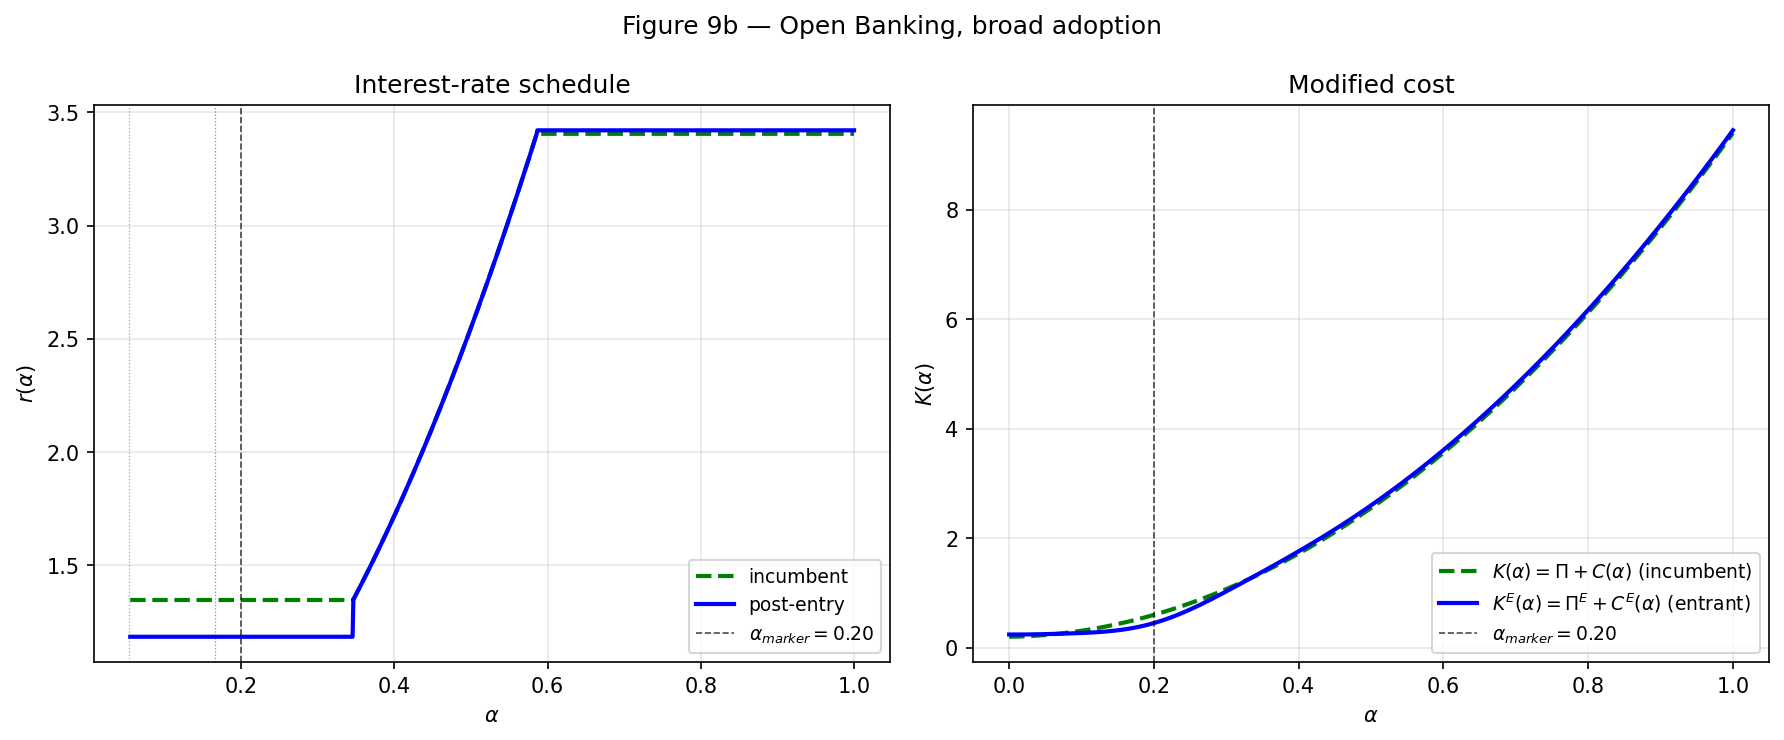
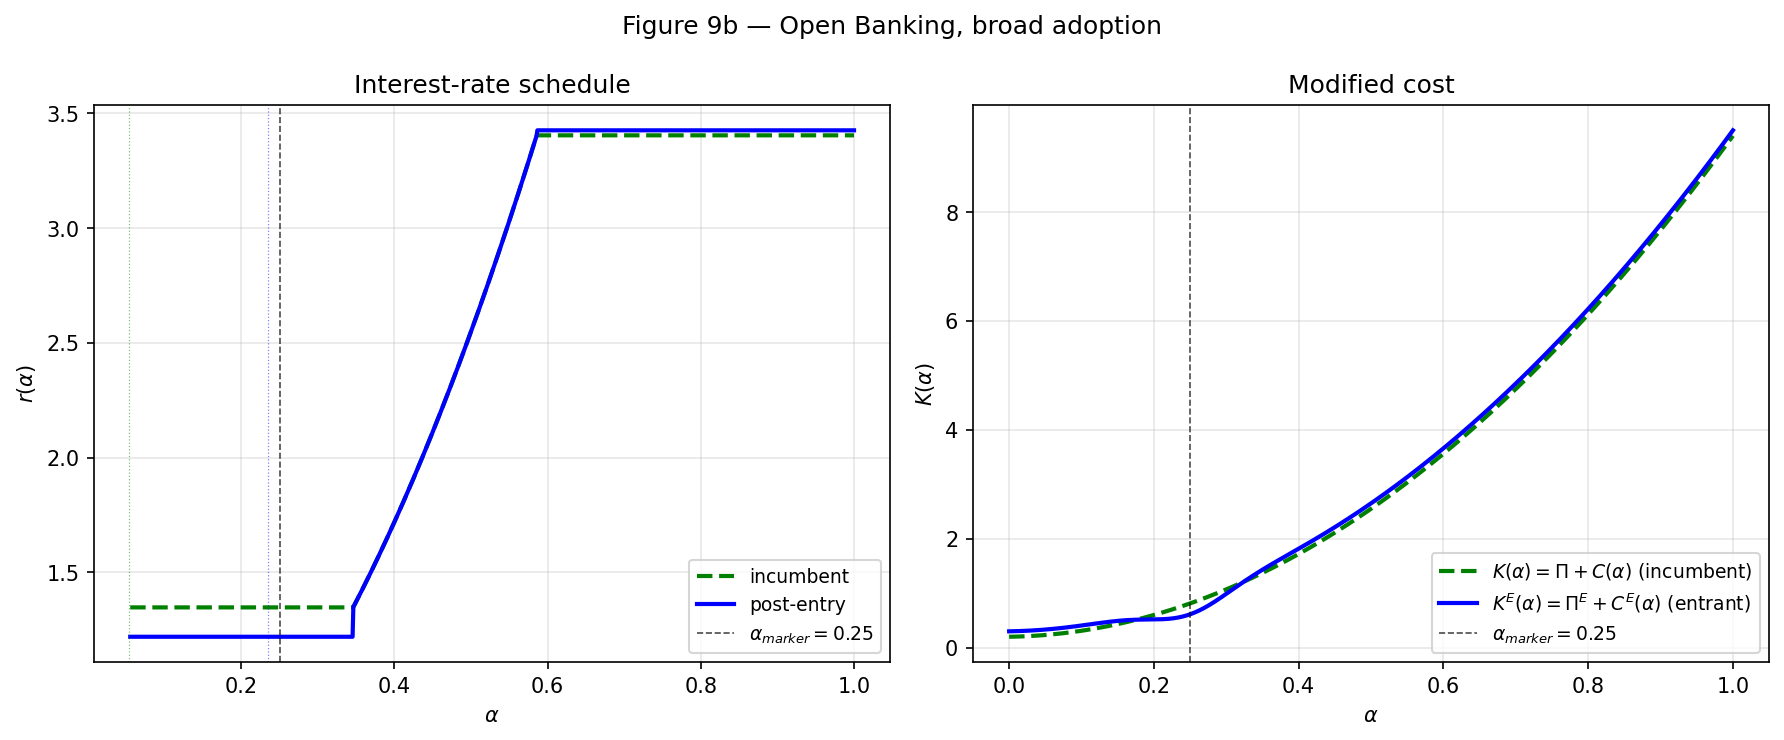
Iteration 3: tighten params for fig 8 / 9b, enforce K^E monotonicity
- FIG8_bigdata: alpha_hat=0.55, transition_width=0.08 so K^E and K_inc
  cross around alpha ~ 0.5 within CIM; transition_width derivation
  documented inline. K^E monotone.
- FIG9_OB_broad (cost_dip_gaussian): alpha_center=0.25, sigma=0.05,
  delta_dip=0.30, delta_baseline=0.10. Sits at the cleanest corner of
  the constraint set:
    (i)  K^E monotone (delta_dip <= K'(alpha_c-sigma)*sigma/0.607)
    (ii) K^E >= K_inc on (alpha_1, alpha_2) so no Region II entry
   (iii) Cost advantage band pulls entrants to mid-pooling, raises
         badleftoverE, lands the equilibrium on the rprime-min branch
         ("rNS goes up, no NS entry"; alpha_2^E = alpha_2).
- Constraint derivations are written into the config comments so future
  re-tuning has the bounds at hand.

diff --git a/mainE_python.py b/mainE_python.py
@@ -77,12 +77,16 @@ PARAM_CONFIGS = {
         'description': 'Figure 8 / fig:AIintermediateInnovation - big data: C^E<C for alpha>alpha_hat.',
         # Setup chosen so K^E starts above K (Π^E > Π = 0.2), is flatter at high
         # α (λ < 1 multiplicative reduction), and crosses K only at a relatively
-        # high α (within the CIM region, before NS).
+        # high α (around α ≈ 0.5, within the CIM region, before NS).
+        # alpha_hat = 0.55 puts the transition near the NS boundary; the crossover
+        # point K^E = K_inc then falls around α ≈ 0.5.
         **_DEFAULT_INC_BASELINE,
         'has_entry': True,
         'PiE': 0.5,
         'cfunE_kind': 'cost_reduction_top',
-        'cfunE_params': {'alpha_hat': 0.40, 'lambda': 0.5, 'transition_width': 0.05},
+        'cfunE_params': {'alpha_hat': 0.55, 'lambda': 0.5, 'transition_width': 0.08},
+        # transition_width = 0.08 keeps K^E monotone given C(α)=9α²+0.2α.
+        # The bound is s ≥ (1-λ)·C(α_hat)/[(2+2λ)·C'(α_hat)] ≈ 0.047.
     },
     'FIG9_OB_limited': {
         'description': 'Figure 9a / fig:OB left - Open Banking, limited adoption (alpha_hat small).',
@@ -102,19 +106,31 @@ PARAM_CONFIGS = {
         # Target equilibrium branch: rprime is min AND rprime > K(α₂)
         # ("rNS goes up, no NS entry" branch from prop:EntEqHeterogC proof,
         # lines 1432-1433 of the LaTeX).
-        # The Gaussian dip is centered inside the pooling region, away from α₀,
-        # so entrants prefer to enter at HIGHER α than incumbents → more cream-
-        # skimming of goods → more bads left over → rprime > K(α₂).
-        # K^E ≥ K_inc at α=0 and α=α₂ ensures rdprime, rtprime are not the min.
+        # The Gaussian dip is centered closer to α₁ with a deeper dip and a
+        # higher baseline, so:
+        #   (a) entrants prefer α near α_center > α₀ → more cream-skimming of
+        #       goods → larger badleftoverE → r_NS^E visibly above r_NS.
+        #   (b) K^E rises above K_inc cleanly outside the band (delta_baseline)
+        #       so rdprime, rtprime are not the minimum.
         **_DEFAULT_INC_BASELINE,
         'has_entry': True,
         'PiE': 0.2,
         'cfunE_kind': 'cost_dip_gaussian',
         'cfunE_params': {
-            'alpha_center': 0.20,    # in middle of pooling region [α₀=0.054, α₁=0.346]
-            'sigma': 0.08,           # narrow band
-            'delta_dip': 0.20,       # peak advantage
-            'delta_baseline': 0.05,  # entrant slightly disadvantaged outside the band
+            # Three constraints to balance:
+            #   (i)   K^E monotone:  delta_dip ≤ K'(α_c−σ)·σ/0.607.
+            #   (ii)  K^E ≥ K_inc in Region II (α₁,α₂):
+            #         delta_baseline ≥ delta_dip · exp(−(α₁−α_c)²/(2σ²)).
+            #   (iii) Enough dip and high enough α_c so entrants enter at
+            #         mid-pooling and cream-skim → badleftoverE > badleftover.
+            # K'(α)=18α+0.2.  Picking α_c=0.25, σ=0.05:
+            #   (i)  K'(0.20)·0.05/0.607 ≈ 3.8·0.082 = 0.313  ⇒ dip ≤ 0.31.
+            #   (ii) bump(α₁=0.346) = exp(−(0.096)²/0.005)=0.158, so
+            #         baseline ≥ 0.30·0.158 = 0.047  ⇒ baseline = 0.10 safe.
+            'alpha_center': 0.25,
+            'sigma': 0.05,
+            'delta_dip': 0.30,
+            'delta_baseline': 0.10,
         },
     },
 }

diff --git a/make_figure7.py b/make_figure7.py
@@ -34,14 +34,14 @@ def main():
     ax.set_title('Interest-rate schedule'); ax.grid(alpha=0.3); ax.legend(fontsize=9)
 
     # --- Panel 2: K(alpha) ---
-    # K_SP is independent of PiE, so the two SP curves coincide — show one.
+    # K^E = Π^E + C^E_SP = K_SP(α; κ) is independent of Π^E by construction,
+    # so the high-/low-Π^E entry K curves coincide. Plot one of them.
     ax = axes[1]
     ax.plot(incumbent['alphas_plot'], incumbent['K_inc_plot'],
             'g--', lw=2, label=r'$K(\alpha) = \Pi + C(\alpha)$ (incumbent)')
     ax.plot(sp_highPiE['alphas_plot'], sp_highPiE['K_E_plot'],
-            'b-',  lw=2, label=r'$K^E(\alpha) = \Pi^E_{high} + C^E_{SP}(\alpha)$')
-    ax.plot(sp_lowPiE['alphas_plot'],  sp_lowPiE['K_E_plot'],
-            'r-',  lw=2, label=r'$K^E(\alpha) = \Pi^E_{low} + C^E_{SP}(\alpha)$')
+            'b-',  lw=2,
+            label=r'$K^E(\alpha) = K_{SP}(\alpha;\kappa)$ (entrant, both $\Pi^E$)')
     ax.set_xlabel(r'$\alpha$'); ax.set_ylabel(r'$K(\alpha)$')
     ax.set_title('Modified cost'); ax.grid(alpha=0.3); ax.legend(fontsize=9)
 
